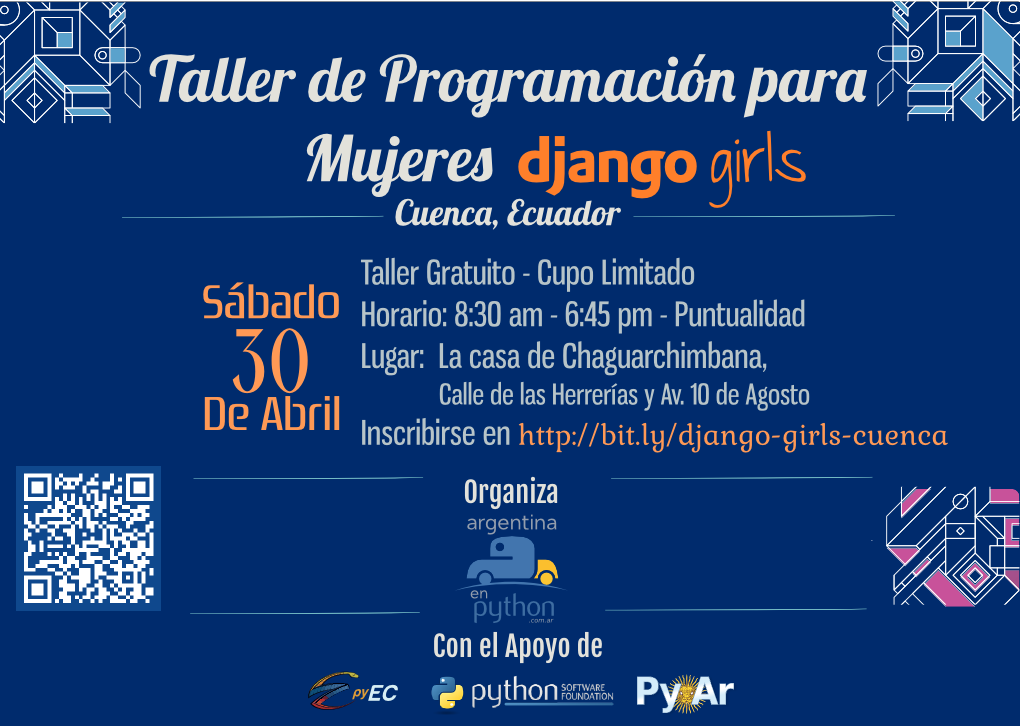
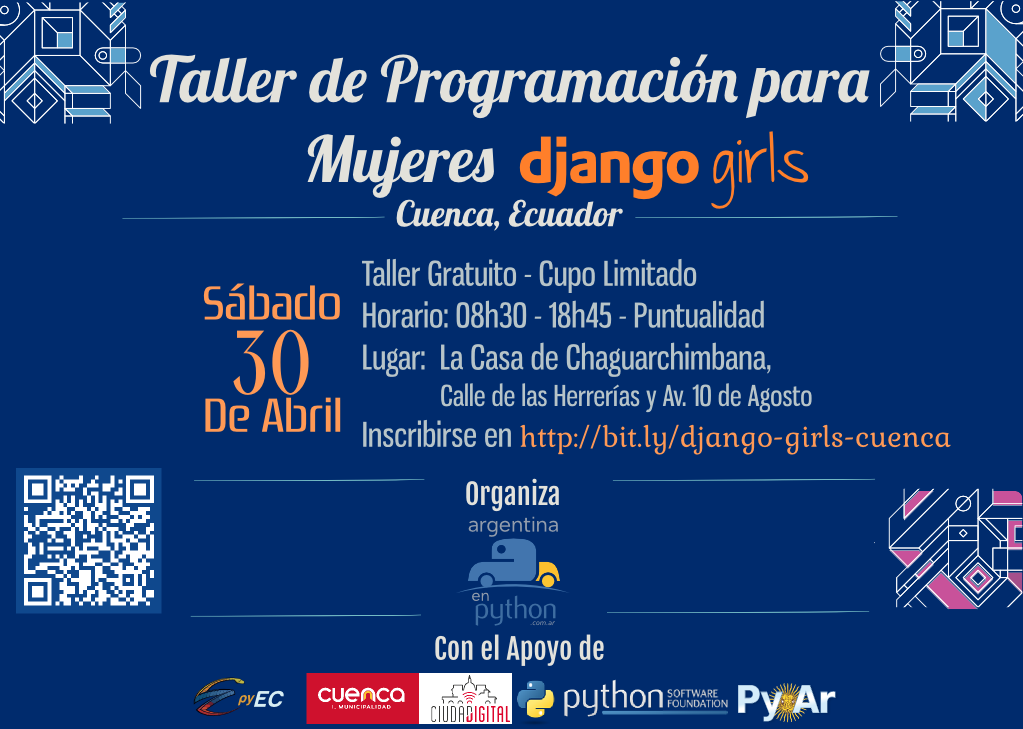
Cambio sección colaboradores por "con el apoyo de" y actualizo flyer

diff --git a/web/stories/django-girls-cuenca.rst b/web/stories/django-girls-cuenca.rst
@@ -178,7 +178,7 @@ contigo para coordinar los detalles.
    ¡Quiero participar como guía!
 
 
-Colaboradores
+Con el Apoyo de:
 -------------
 
 .. image:: colaboradores.png
